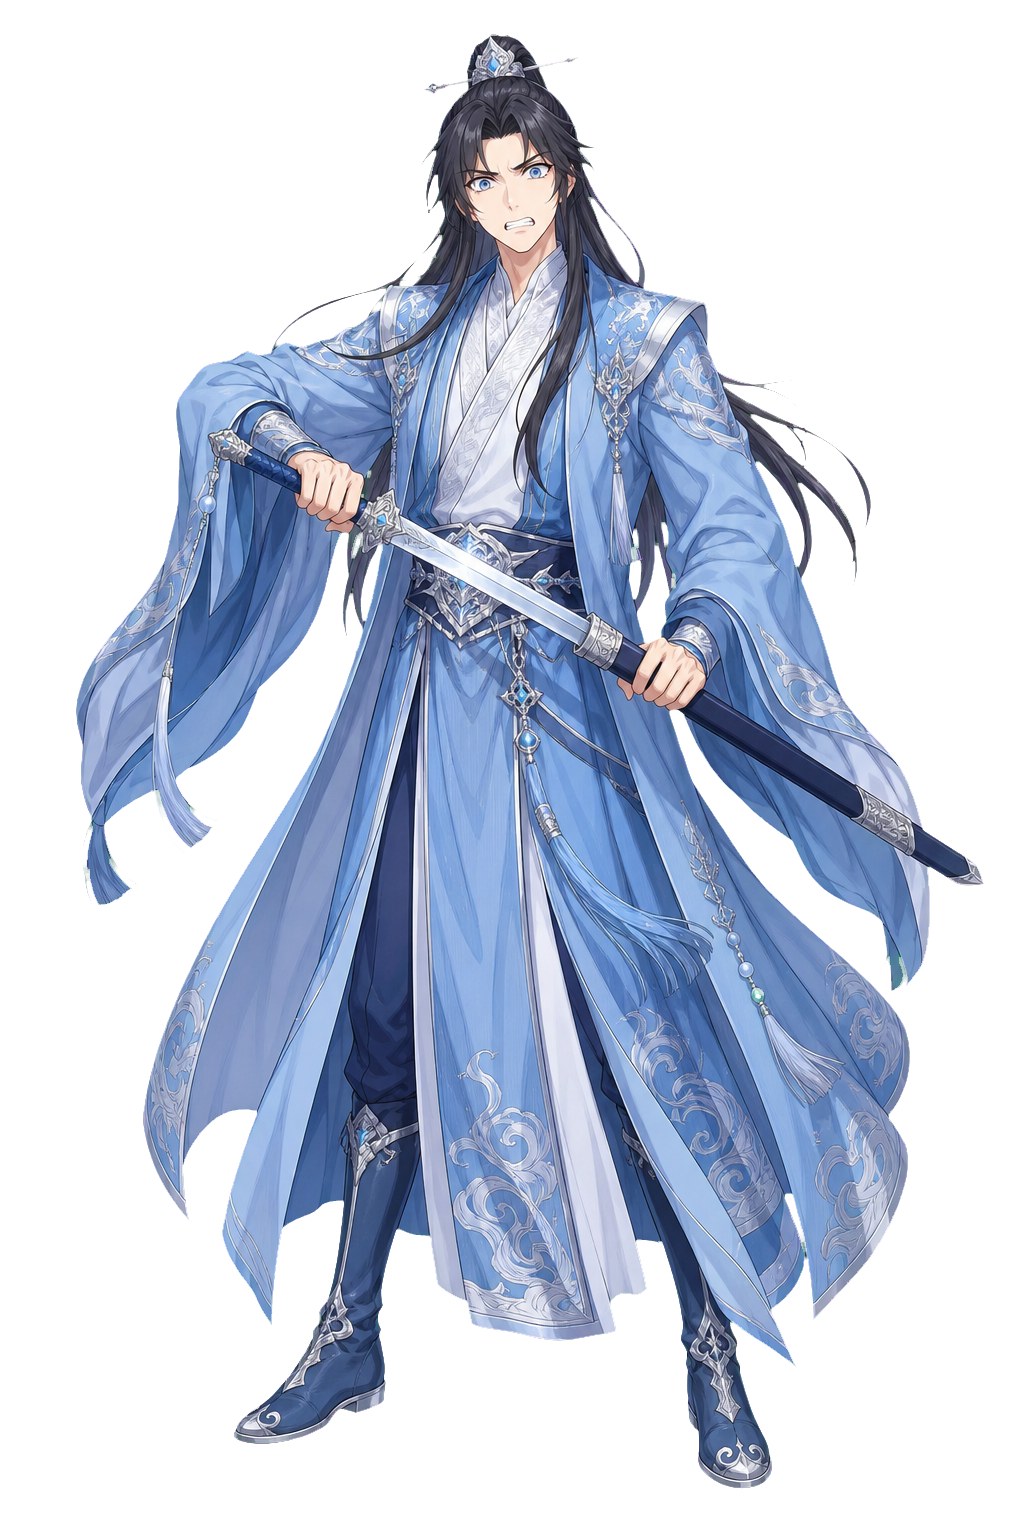
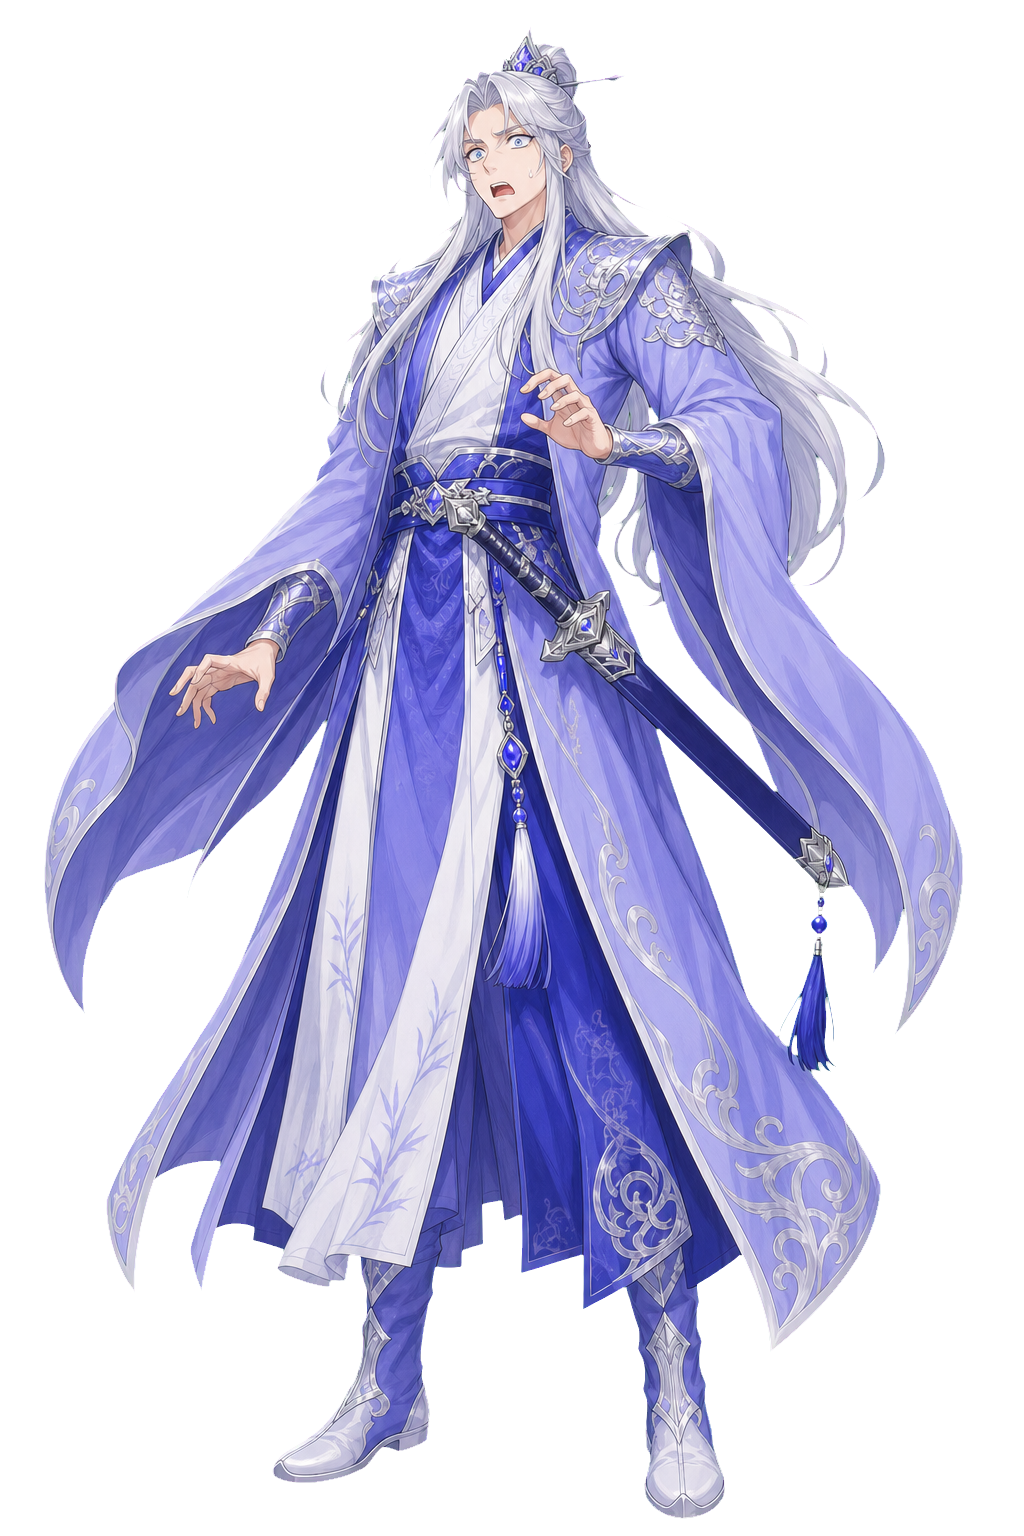
开局打磨（发小意见）+ 立绘一致性修正 + 音效系统
立绘一致性（用户反馈赵虎不统一，全角色排查）：
- 重做 zhao_beaten：锚定 zhao_smug，壮汉短发绿袍的战败惊恐（原为长发枯瘦破衣，判若两人）
- 重做 shen_shock：锚定 shen_proud，银发紫袍的震惊（原为黑发蓝袍）
- 其余角色（周/柳/玄一/顾）经核查一致，透明背景无黑底

序章打磨（发小开局意见）：
- "核减"改通俗"扣下"
- 窗台敲击"叩叩"改"咚咚"（叩非猫的动作）
- 赵虎离场后清空立绘，不再滞留高亮
- 老周头居中登场+挥手，登场更醒目
- "看手"挂新 CG cg_steady_hand 给画面

音效系统（新）：
- 引擎加环境音(循环)+一次性音效层，与右上角声音开关统一
- DSL 支持 amb(粘性环境音)/sfx(一次性) 节点选项
- 纯标准库合成雨声/敲窗/搬砖/脚步 ogg（tools/gen_sfx.py）
- 序章全程雨声，踹砖/小跑/敲窗触发音效，云海闪回静音

diff --git a/web/script/ch0.js b/web/script/ch0.js
@@ -3,7 +3,7 @@
   const C = makeChapter('p', '序章·雨夜有猫叫我的名字');
 
   /* —— 开场：危机、倒计时、身份，全部在第一分钟压上 —— */
-  C.scene({ bg: 'bg_zayuan', music: 'tender', cast: [] });
+  C.scene({ bg: 'bg_zayuan', music: 'tender', amb: 'rain', cast: [] });
   C.n('雨，下到第三天。', { title: '序章·雨夜有猫叫我的名字' });
   C.n('青云宗，杂役院。');
   C.n('你在雨里搬砖。');
@@ -15,48 +15,54 @@
 
   C.l('zhao', 'smug', '哟，还真搬呐。');
   C.n('赵虎挑着灯笼过来，皮笑肉不笑。');
-  C.l('zhao', 'smug', '这个月的灵米，宗里"核减"了。');
-  C.l('zhao', 'smug', '你的那份，抵了砖钱。');
+  C.l('zhao', 'smug', '这个月的灵米，宗里给你扣下了。');
+  C.l('zhao', 'smug', '你那份，抵了砖钱。');
   C.mc('砖是我搬的。还要我出砖钱？');
   C.l('zhao', 'smug', '砖被雨淋了，算损耗。');
   C.l('zhao', 'smug', '懂不懂规矩？废物。');
-  C.n('他踹了一脚砖堆。');
-  C.n('你码了两个时辰的砖，塌了一半。');
+  C.n('他踹了一脚砖堆。', { sfx: 'brick' });
+  C.n('你码了两个时辰的砖，哗啦塌了一半。');
   C.l('zhao', 'smug', '对了，忘了通知你。');
   C.l('zhao', 'smug', '三日后，试剑大会。');
   C.l('zhao', 'smug', '外门垫底的十个人，逐出宗门。');
   C.l('zhao', 'smug', '你这三年练气一层的剑骨废人——');
   C.l('zhao', 'smug', '提前收拾包袱吧。哈哈哈哈。');
-  C.n('灯笼晃远了。');
+  C.n('赵虎挑着灯笼，大摇大摆地走远了。');
+  /* 赵虎离场：清空立绘，舞台只剩雨 */
+  C.scene({ cast: [] });
+  C.n('灯笼的光，一点一点被雨吞掉。');
   C.n('雨还在下。');
   C.mc('（三天。）');
   C.mc('（被赶出宗门的散修，活不过一个冬天。）');
   C.mc('（外门一千人，练气一层排倒数。）');
   C.mc('（这个倒数，我排了三年。）');
 
-  /* 老周头：暖场+主题人物登场 */
-  C.l('zhou', 'smile', '别码了别码了，明早还得塌。');
-  C.n('老周头不知什么时候站在屋檐下，朝你招手。');
-  C.l('zhou', 'smile', '馒头。热的。');
-  C.n('他往你手里塞了两个馒头，烫得你一哆嗦。');
+  /* 老周头：暖场+主题人物登场（明确登场动作） */
+  C.n('屋檐下，忽然探出一个脑袋。');
+  C.n('老周头冲你用力挥手，胡子一翘一翘。', { cast: ['zhou:smile@center'] });
+  C.l('zhou', 'smile', '哎——别码了别码了，明早还得塌！');
+  C.n('他一瘸一拐地小跑过来，往你手里塞了两个馒头。', { sfx: 'step' });
+  C.l('zhou', 'smile', '馒头。热的。趁烫吃。');
+  C.n('烫得你一哆嗦，差点没接住。');
   C.l('zhou', 'smile', '吃完就睡。天大的事，睡醒再说。');
   C.mc('……谢了，周伯。');
   C.l('zhou', 'smile', '谢什么。快回吧，你那屋漏雨，记得挪床。');
   C.n('你揣着馒头往破屋走。');
-  C.n('身后，老头慢悠悠码起了你的砖。');
+  C.n('身后，老头慢悠悠地，替你把砖一块块码了回去。');
 
   /* —— 破屋：异变与猫 —— */
-  C.scene({ bg: 'bg_room', music: 'tender', cast: [] });
+  C.scene({ bg: 'bg_room', music: 'tender', amb: 'rain', cast: [] });
   C.n('屋里一股潮味。烛火点到第三根。');
   C.n('你咬了口馒头，忽然停住。');
   C.mc('（手。）');
+  C.n('你摊开手掌，借着烛火端详。', { cg: 'cg_steady_hand' });
   C.n('这双手，三年来端碗都在抖。');
   C.n('今晚，稳得反常。');
   C.mc('（不止是手。骨头里有东西在响。）');
   C.mc('（像很远的地方，有人在磨剑。）');
-  C.n('叩。');
+  C.n('咚。', { cgOff: true, sfx: 'knock' });
   C.n('窗台上，有什么东西敲了一下。');
-  C.n('叩。叩。');
+  C.n('咚。咚。', { sfx: 'knock' });
   C.n('你吹熄蜡烛，贴着墙挪过去，猛地推开窗——');
 
   C.n('一只猫。', { cg: 'cg_cat_window' });
@@ -130,7 +136,7 @@
   C.l('cat', 'normal', '别急着信。看。');
 
   /* 记忆闪回：伤口 */
-  C.scene({ bg: 'bg_feisheng', music: 'battle', cast: [] });
+  C.scene({ bg: 'bg_feisheng', music: 'battle', amb: null, cast: [] });
   C.n('——眼前一黑。');
   C.n('再亮起来时，你站在云海之上。');
   C.n('一座高得没边的白玉高台。');
@@ -144,7 +150,7 @@
   C.n('"师兄。天要你死，我不敢不从。"');
   C.n('金光碎了。云海碎了。你碎了。', { cgOff: true });
 
-  C.scene({ bg: 'bg_room', music: 'tender', cast: ['cat:sad'] });
+  C.scene({ bg: 'bg_room', music: 'tender', amb: 'rain', cast: ['cat:sad'] });
   C.n('烛火噼啪一声。你回来了，浑身是汗。');
   C.mc('（心口疼。疼的位置，和梦里一模一样。）');
   C.l('cat', 'sad', '想起来多少？');

diff --git a/web/engine.js b/web/engine.js
@@ -3,6 +3,7 @@
   'use strict';
   const $ = id => document.getElementById(id);
   const STORY = window.STORY, CHARS = window.CHARS, MUSIC = window.MUSIC, BGS = window.BGS;
+  const AMB = window.AMB || {}, SFX = window.SFX || {};
 
   /* ---------- 全局持久数据 ---------- */
   const GKEY = 'jsg3_global';
@@ -67,10 +68,27 @@
       if (audio.volume <= 0) { clearInterval(fadeTimer); audio.pause(); }
     }, 70);
   }
+  /* ---------- 环境音 + 一次性音效（与音乐共用 bgmOn 开关） ---------- */
+  let ambAudio = null, curAmb = null;
+  function playAmbient(key) {
+    if (!key || !AMB[key] || !G.settings.bgmOn) { stopAmbient(); return; }
+    if (curAmb === key && ambAudio && !ambAudio.paused) return;
+    curAmb = key;
+    if (!ambAudio) { ambAudio = new Audio(); ambAudio.loop = true; }
+    ambAudio.src = AMB[key]; ambAudio.volume = Math.min(0.5, (G.settings.bgm / 100) * 0.6);
+    ambAudio.play().catch(() => {});
+  }
+  function stopAmbient() { curAmb = null; if (ambAudio && !ambAudio.paused) ambAudio.pause(); }
+  function playSfx(key) {
+    if (!key || !SFX[key] || !G.settings.bgmOn) return;
+    const a = new Audio(SFX[key]); a.volume = Math.min(0.7, (G.settings.bgm / 100) * 0.9);
+    a.play().catch(() => {});
+  }
+
   function syncMusicBtn() {
     const b = $('music-toggle'); if (!b) return;
     b.classList.toggle('on', G.settings.bgmOn);
-    b.title = G.settings.bgmOn ? '音乐开（点击关闭）' : '音乐关（点击开启）';
+    b.title = G.settings.bgmOn ? '声音开（点击关闭）' : '声音关（点击开启）';
   }
   function toggleMusic() {
     G.settings.bgmOn = !G.settings.bgmOn; saveG(); syncMusicBtn();
@@ -78,7 +96,8 @@
       ensureAudio();
       const node = state && STORY.nodes[state.node];
       playTrack(node ? node.music : null);
-    } else stopMusic();
+      playAmbient(node ? node.amb : null);
+    } else { stopMusic(); stopAmbient(); }
   }
 
   /* ---------- 背景 ---------- */
@@ -260,6 +279,8 @@
     const bgChanged = node.bg !== curBg;
     setBg(node.bg);
     playTrack(node.music);
+    playAmbient(node.amb);
+    if (node.sfx) playSfx(node.sfx);
     renderCg(node, bgChanged);
     renderCast(node);
     const ch = CHARS[node.sp] || {};

diff --git a/web/script/dsl.js b/web/script/dsl.js
@@ -7,7 +7,7 @@ window.makeChapter = function (prefix, chapterTitle) {
   let seq = 0;
   let pendingId = null;
   let lastNode = null;
-  let cur = { bg: null, music: null, cast: [] };
+  let cur = { bg: null, music: null, amb: null, cast: [] };
 
   function rid(name) { return prefix + '_' + name; }
   /* 绝对id：以已知章节前缀开头；否则视为本章短标签 */
@@ -40,6 +40,7 @@ window.makeChapter = function (prefix, chapterTitle) {
     opts = opts || {};
     if (opts.bg) cur.bg = opts.bg;
     if (opts.music) cur.music = opts.music;
+    if (opts.amb !== undefined) cur.amb = opts.amb;
     if (opts.cast) cur.cast = parseCast(opts.cast);
     const ch = window.CHARS[sp] || {};
     if (sp && !ch.narrator && !ch.player) {
@@ -49,11 +50,12 @@ window.makeChapter = function (prefix, chapterTitle) {
     }
     const node = {
       id: nextId(), sp: sp || 'narr', t: text,
-      bg: cur.bg, music: cur.music, cast: snapshot(),
+      bg: cur.bg, music: cur.music, amb: cur.amb, cast: snapshot(),
       chapter: chapterTitle || ''
     };
     if (opts.cg) node.cg = opts.cg;
     if (opts.cgOff) node.cgOff = true;
+    if (opts.sfx) node.sfx = opts.sfx;
     if (opts.fx) node.fx = opts.fx;
     if (opts.title) node.title = opts.title;
     if (opts.note) node.note = opts.note;
@@ -67,6 +69,7 @@ window.makeChapter = function (prefix, chapterTitle) {
     scene(opts) {
       if (opts.bg !== undefined) cur.bg = opts.bg;
       if (opts.music !== undefined) cur.music = opts.music;
+      if (opts.amb !== undefined) cur.amb = opts.amb;
       if (opts.cast !== undefined) cur.cast = parseCast(opts.cast);
     },
     l: line,

diff --git a/web/script/characters.js b/web/script/characters.js
@@ -83,6 +83,16 @@ window.MUSIC = {
   battle: 'assets/music/toccata_bwv565.ogg'
 };
 
+/* 环境音（循环）与一次性音效；与音乐共用右上角声音开关 */
+window.AMB = {
+  rain: 'assets/sfx/amb_rain.ogg'
+};
+window.SFX = {
+  knock: 'assets/sfx/sfx_knock.ogg',
+  brick: 'assets/sfx/sfx_brick.ogg',
+  step:  'assets/sfx/sfx_step.ogg'
+};
+
 window.BGS = {
   bg_zayuan:   'assets/backgrounds/bg_zayuan.png',
   bg_room:     'assets/backgrounds/bg_room.png',
@@ -124,5 +134,6 @@ window.CG_TITLES = {
   cg_demon_shadow: '殿中白影', cg_demon_embrace: '黑与白', cg_demon_kiss: '幻灭之吻',
   cg_leave_bath: '浴桶', cg_leave_drunk: '桂花酿', cg_leave_quilt: '同衾', cg_leave_dawn: '晨炊',
   cg_refuse_dream: '梦·窗边', cg_refuse_warm: '梦·依偎',
-  cg_arena_moon: '月华复形', cg_arena_tend: '敷药', cg_arena_warm: '偎暖', cg_arena_dawn: '黎明之约'
+  cg_arena_moon: '月华复形', cg_arena_tend: '敷药', cg_arena_warm: '偎暖', cg_arena_dawn: '黎明之约',
+  cg_steady_hand: '稳住的手'
 };

diff --git a/tools/gen_sfx.py b/tools/gen_sfx.py
@@ -1,0 +1,91 @@
+#!/usr/bin/env python3
+"""合成游戏音效（纯标准库，无需numpy），输出16bit单声道WAV到 /tmp/sfx_wav/。
+随后由 enhance/转码脚本用 ffmpeg 转 ogg 放入 web/assets/sfx/。
+音效：雨声环境(可循环)、敲窗"咚"、搬砖石响、雨中脚步。"""
+import wave, struct, math, random, os
+
+SR = 22050
+OUT = "/tmp/sfx_wav"
+os.makedirs(OUT, exist_ok=True)
+random.seed(20260612)
+
+def write_wav(name, samples):
+    path = os.path.join(OUT, name + ".wav")
+    # 限幅并转16bit
+    data = b"".join(struct.pack("<h", max(-32767, min(32767, int(s * 32767)))) for s in samples)
+    with wave.open(path, "wb") as w:
+        w.setnchannels(1); w.setsampwidth(2); w.setframerate(SR)
+        w.writeframes(data)
+    print(name, f"{len(samples)/SR:.1f}s")
+
+def lowpass(seq, alpha):
+    out = []; prev = 0.0
+    for x in seq:
+        prev = prev + alpha * (x - prev); out.append(prev)
+    return out
+
+def highpass(seq, alpha):
+    out = []; prev_in = 0.0; prev_out = 0.0
+    for x in seq:
+        po = alpha * (prev_out + x - prev_in); out.append(po)
+        prev_in = x; prev_out = po
+    return out
+
+# ---------- 雨声环境（6秒，首尾交叉淡化可无缝循环） ----------
+def rain(dur=6.0):
+    n = int(SR * dur)
+    noise = [random.uniform(-1, 1) for _ in range(n)]
+    body = lowpass(noise, 0.25)          # 低通=远处雨幕的"沙沙"
+    body = highpass(body, 0.6)           # 去掉过低的隆隆
+    # 叠加细密高频"滴答"
+    hiss = lowpass([random.uniform(-1, 1) for _ in range(n)], 0.85)
+    out = []
+    for i in range(n):
+        # 缓慢起伏让雨听起来有层次
+        swell = 0.78 + 0.22 * math.sin(2 * math.pi * 0.07 * i / SR)
+        s = (body[i] * 0.9 + hiss[i] * 0.18) * swell * 0.32
+        out.append(s)
+    # 首尾交叉淡化 0.4s 实现无缝循环
+    xf = int(SR * 0.4)
+    for i in range(xf):
+        a = i / xf
+        out[i] = out[i] * a + out[n - xf + i] * (1 - a)
+    return out[:n - xf]
+
+# ---------- 敲窗"咚"（低沉木质叩击，0.35s） ----------
+def knock():
+    n = int(SR * 0.35); out = []
+    for i in range(n):
+        t = i / SR
+        env = math.exp(-t * 22)
+        tone = 0.6 * math.sin(2 * math.pi * 95 * t) + 0.3 * math.sin(2 * math.pi * 150 * t)
+        click = random.uniform(-1, 1) * math.exp(-t * 120) * 0.5  # 起始木头脆响
+        out.append((tone * env + click) * 0.8)
+    return out
+
+# ---------- 搬砖/石响（两块石头磕碰，0.4s） ----------
+def brick():
+    n = int(SR * 0.4); out = []
+    for i in range(n):
+        t = i / SR
+        env = math.exp(-t * 16)
+        body = (0.5 * math.sin(2 * math.pi * 220 * t) + 0.4 * math.sin(2 * math.pi * 410 * t))
+        grit = random.uniform(-1, 1) * math.exp(-t * 40) * 0.7   # 砂砾摩擦
+        out.append((body * env * 0.5 + grit) * 0.75)
+    return out
+
+# ---------- 雨中脚步（踩水"啪嗒"，0.3s） ----------
+def step():
+    n = int(SR * 0.3); out = []
+    for i in range(n):
+        t = i / SR
+        thud = math.sin(2 * math.pi * 70 * t) * math.exp(-t * 30) * 0.5
+        splash = random.uniform(-1, 1) * math.exp(-t * 26) * 0.45
+        out.append((thud + splash) * 0.7)
+    return lowpass(out, 0.7)
+
+write_wav("amb_rain", rain())
+write_wav("sfx_knock", knock())
+write_wav("sfx_brick", brick())
+write_wav("sfx_step", step())
+print("DONE ->", OUT)
